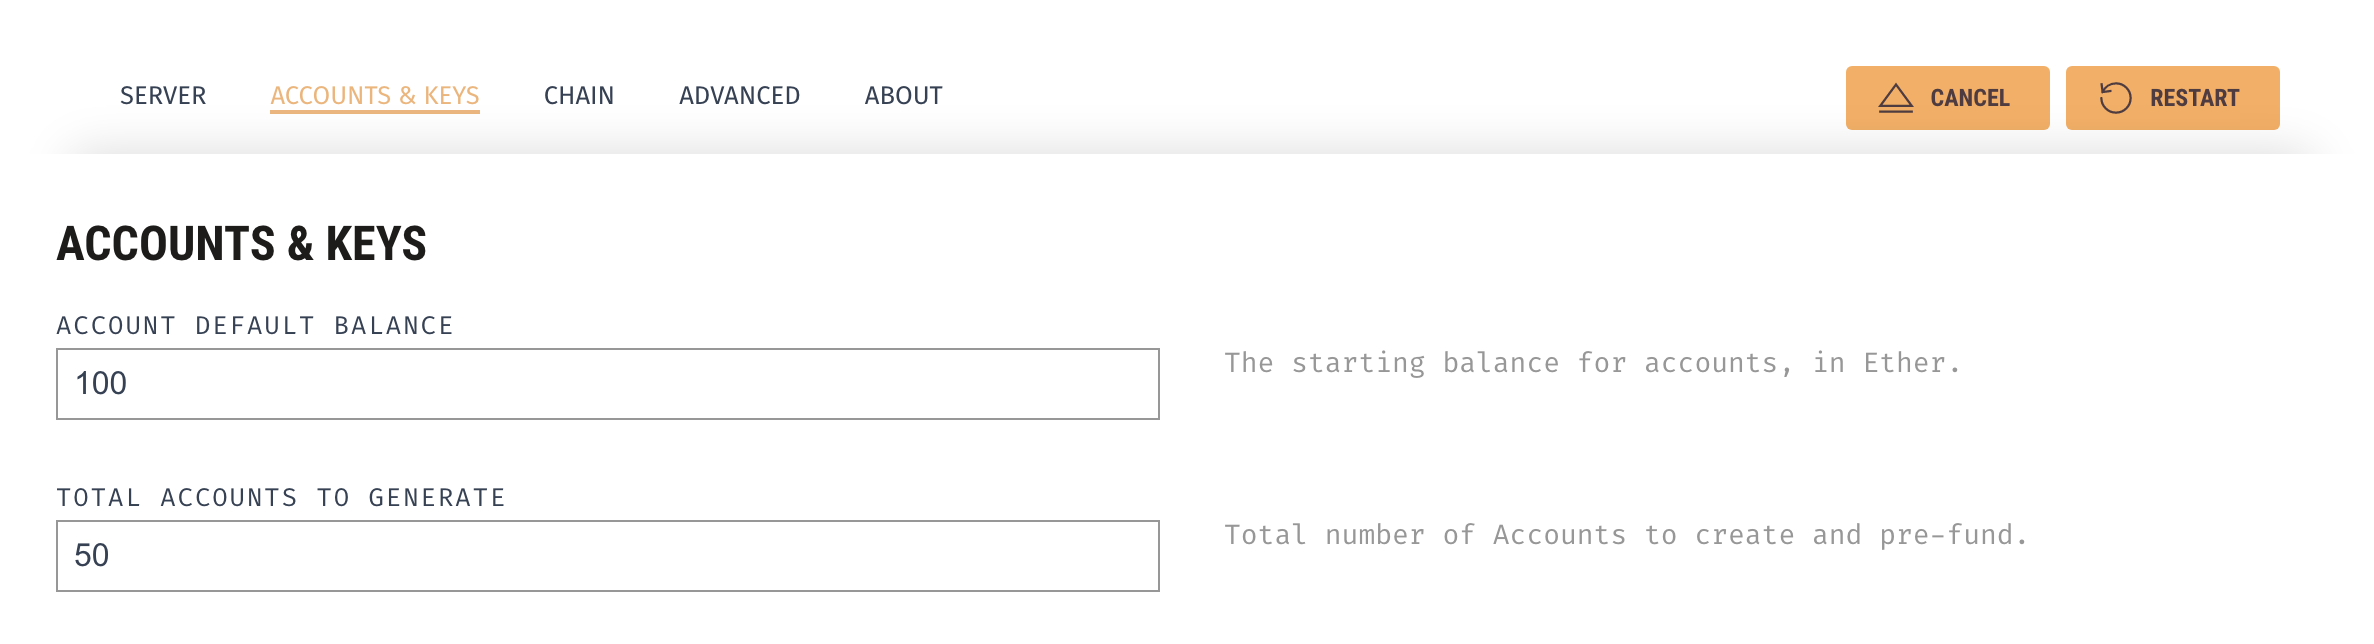
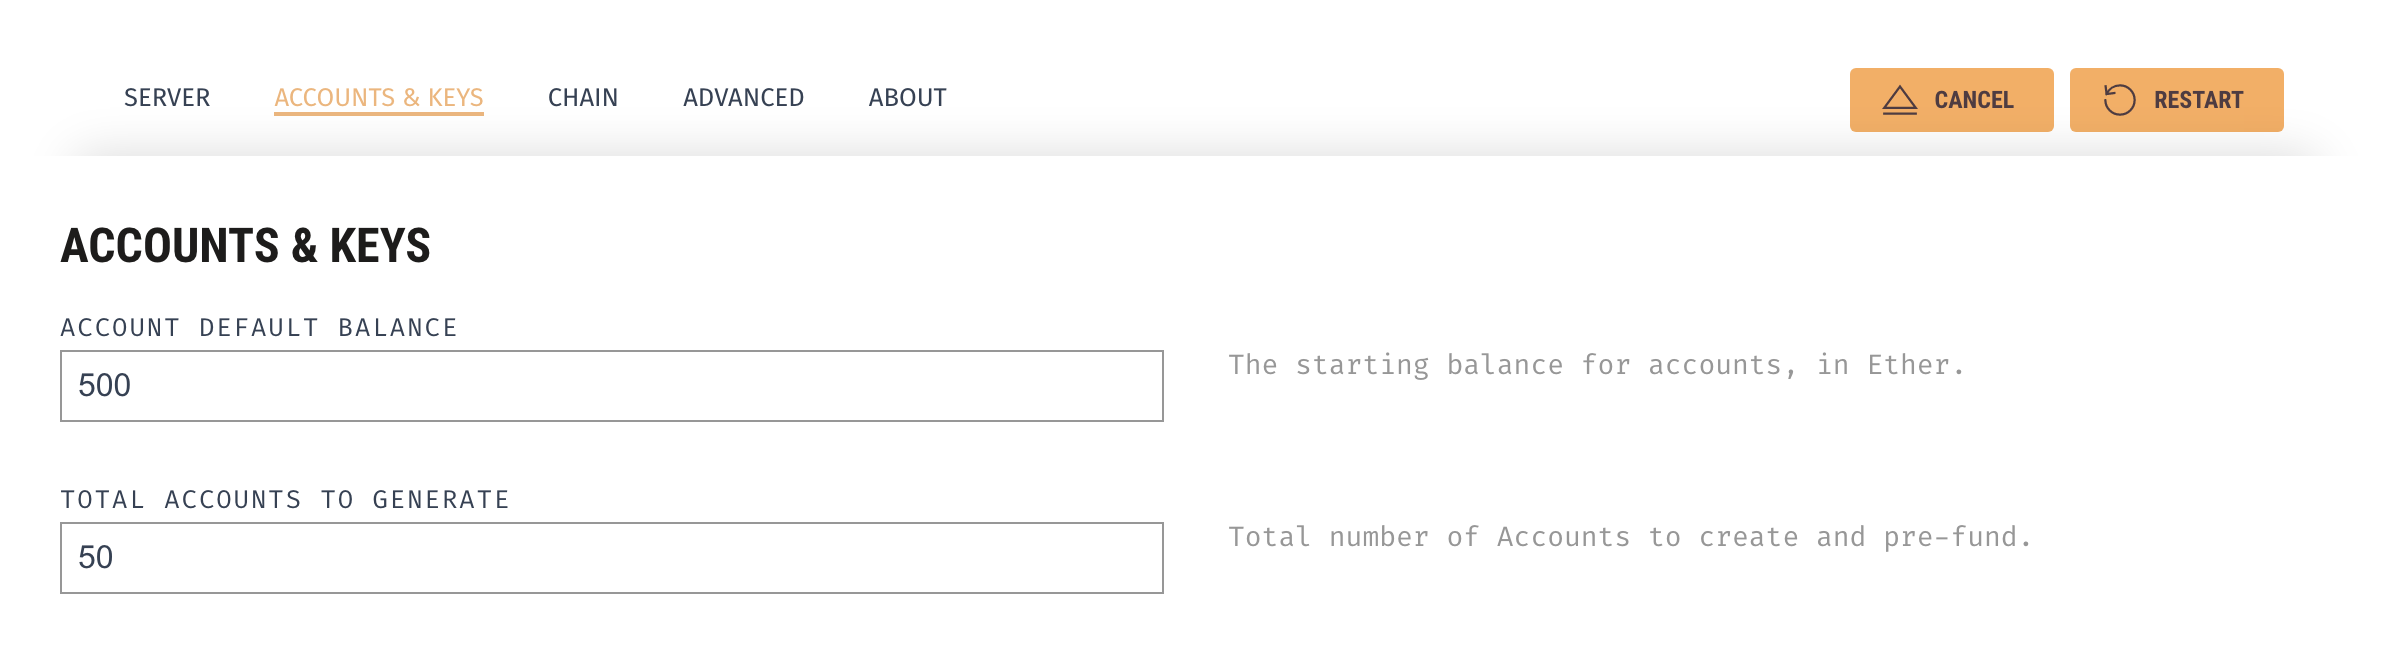
additional images to illustrate the FlightSurety process

diff --git a/README.md b/README.md
@@ -45,7 +45,7 @@ Install Truffle and Ganache.
 ```
 npm install -g truffle@5.0.17
 ```
-Modify your Ganache settings so that it has 50 accounts, each starting with 100 ether. Between the number of accounts needed for the airlines, passengers, Oracles and testing, you'll need that.
+Modify your Ganache settings so that it has 50 accounts, each starting with 500 ether. Between the number of accounts needed for the airlines, passengers, Oracles and testing, you'll need that.
 
 ![](images/ganache-setup.png)
 
@@ -69,7 +69,7 @@ Launch Ganache:
 ![](images/ganache.png)
 
 
-In a separate terminal window, Compile and migrate smart contracts to the locally running blockchain (Ganache):
+Compile and migrate smart contracts to the locally running blockchain (Ganache):
 
 ```
 truffle migrate --reset
@@ -83,10 +83,6 @@ This will create the smart contract artifacts in the ```build/contracts``` folde
 ### Testing the FlightSurety DApp with Oracles
 
 Run the DApp FlightSurety tests:
-
-```
-cd flight-surety
-```
 
 ```
 truffle test test/flightSurety.js
@@ -155,6 +151,27 @@ cd flight-surety/src/dapp
 ```
 npm run dapp
 ```
+
+Launch the DApp in the browser:
+
+NOTE: You can use the trash can icon to clear the transaction and event messages.
+
+```
+http://localhost:8000
+```
+
+![](images/register-fund.png)
+![](images/display-register-fund.png)
+![](images/register-flight.png)
+![](images/display-register-flight.png)
+![](images/purchase-insurance.png)
+![](images/display-purchase-insurance.png)
+![](images/submit-oracles.png)
+![](images/display-flight-status.png)
+![](images/withdraw-payout.png)
+![](images/display-payout-events.png)
+
+
 
 ## Packages
 
